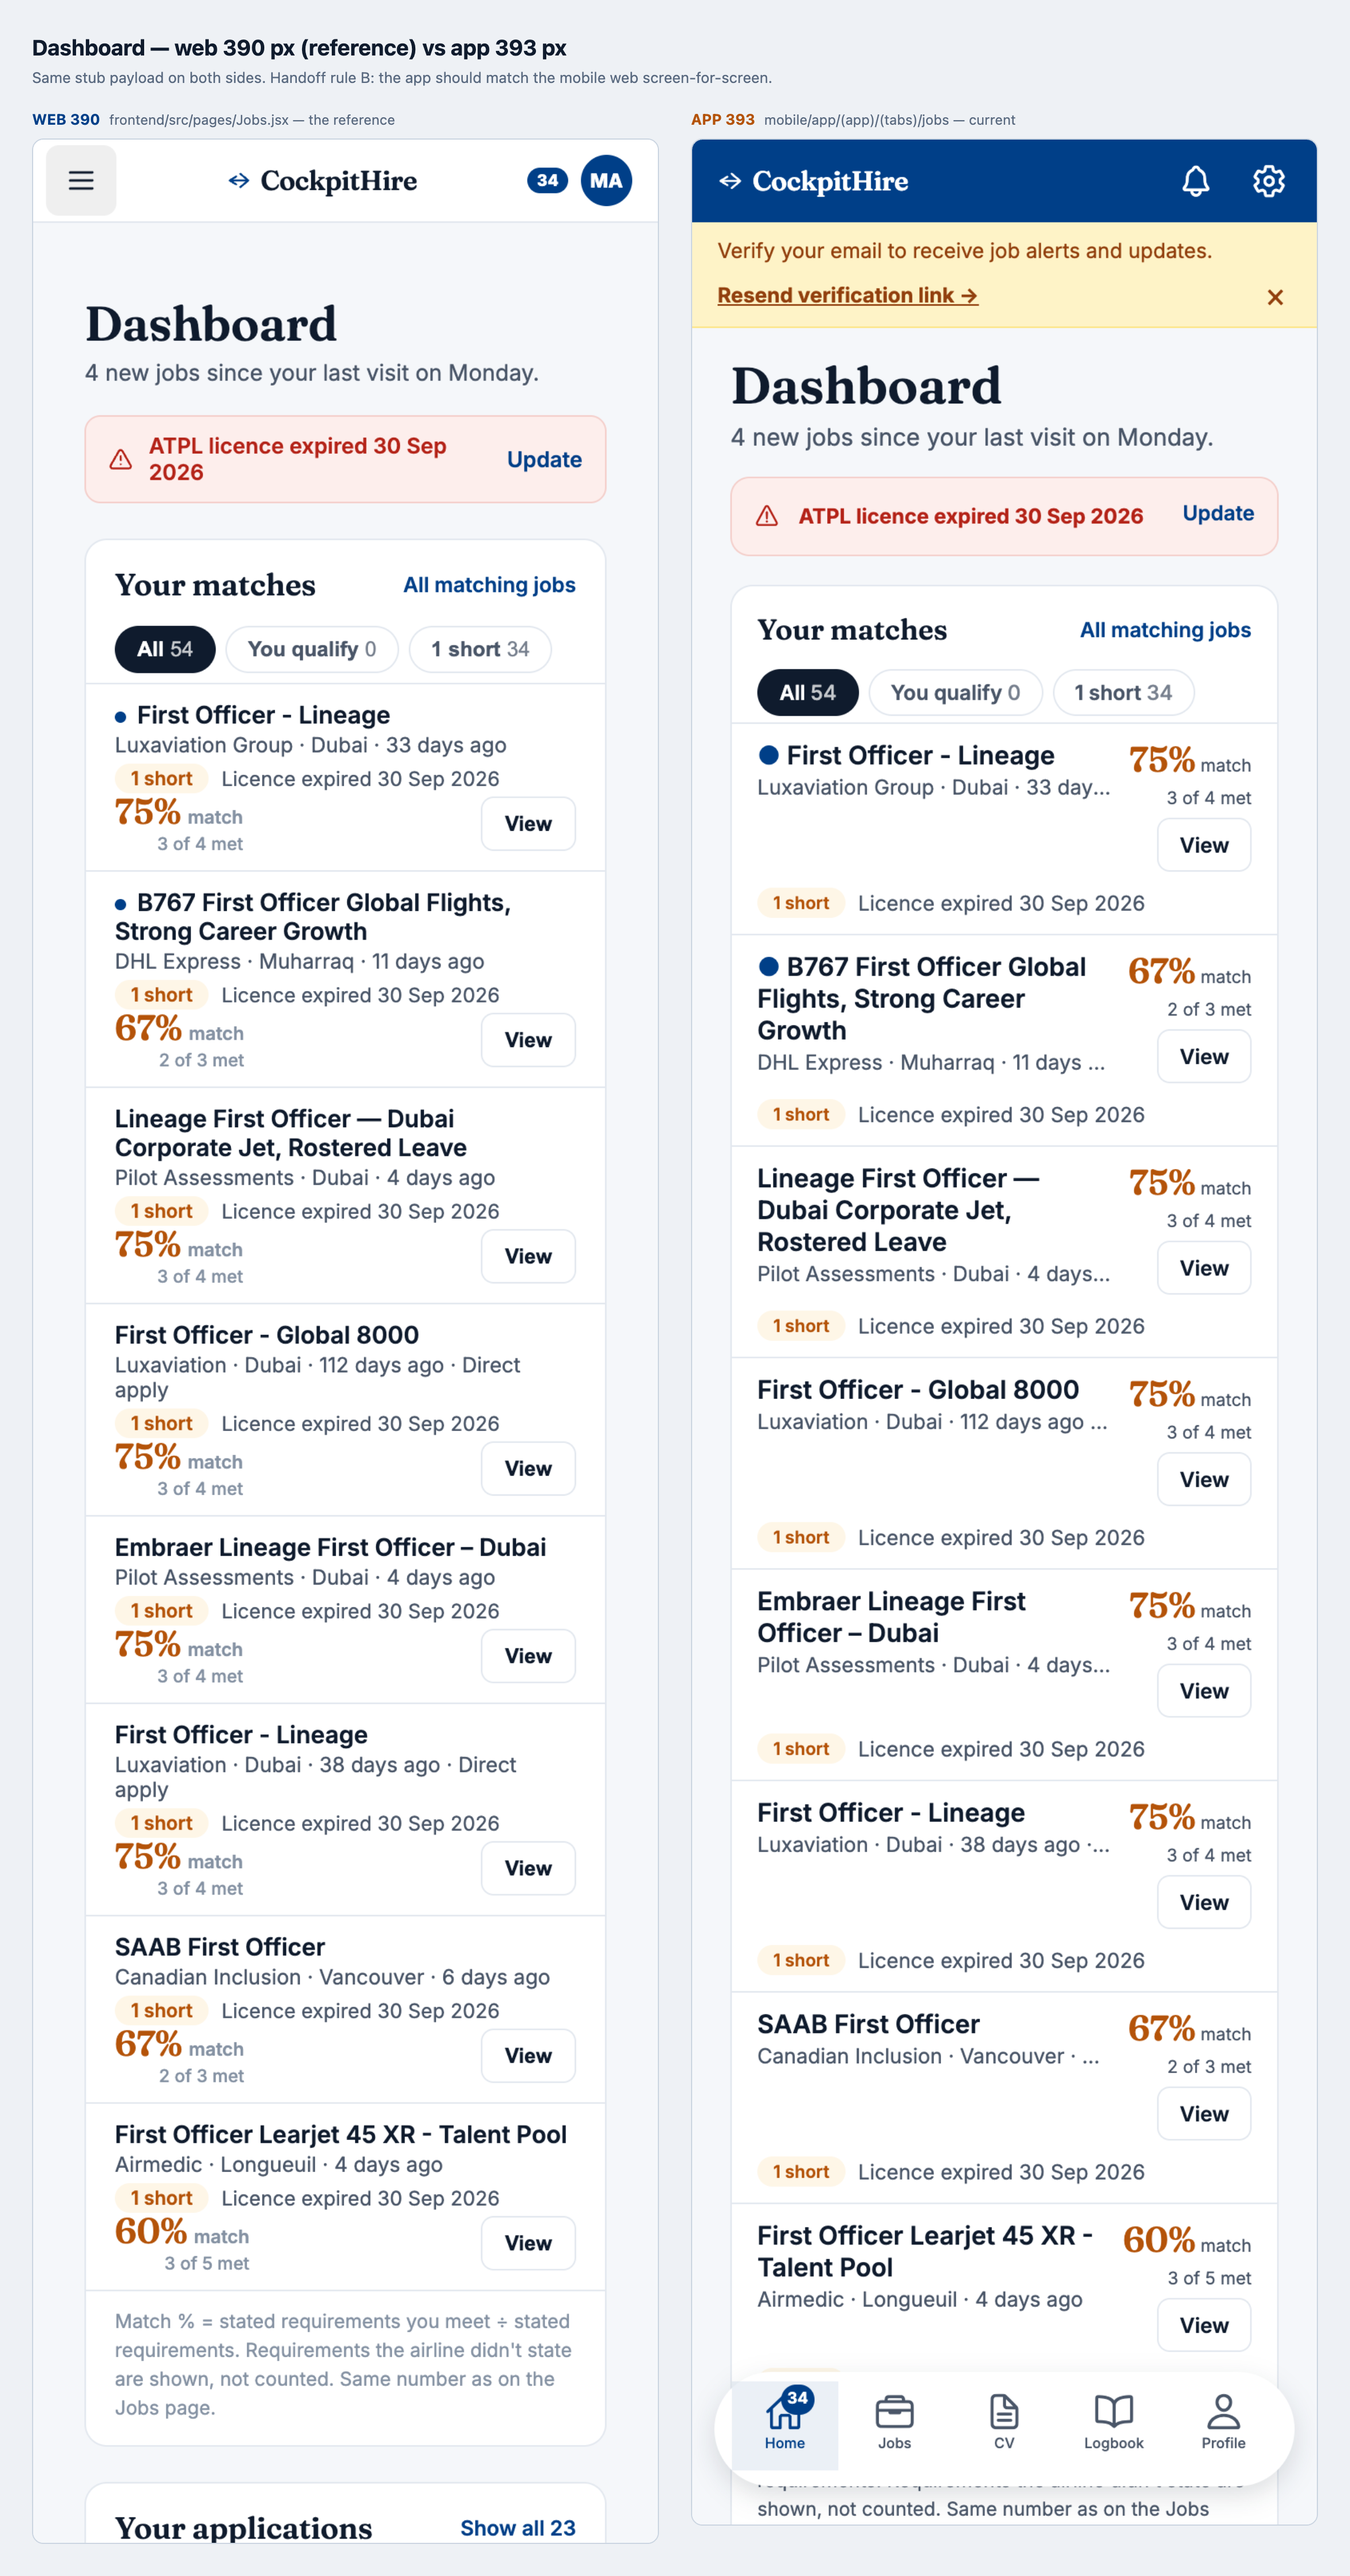
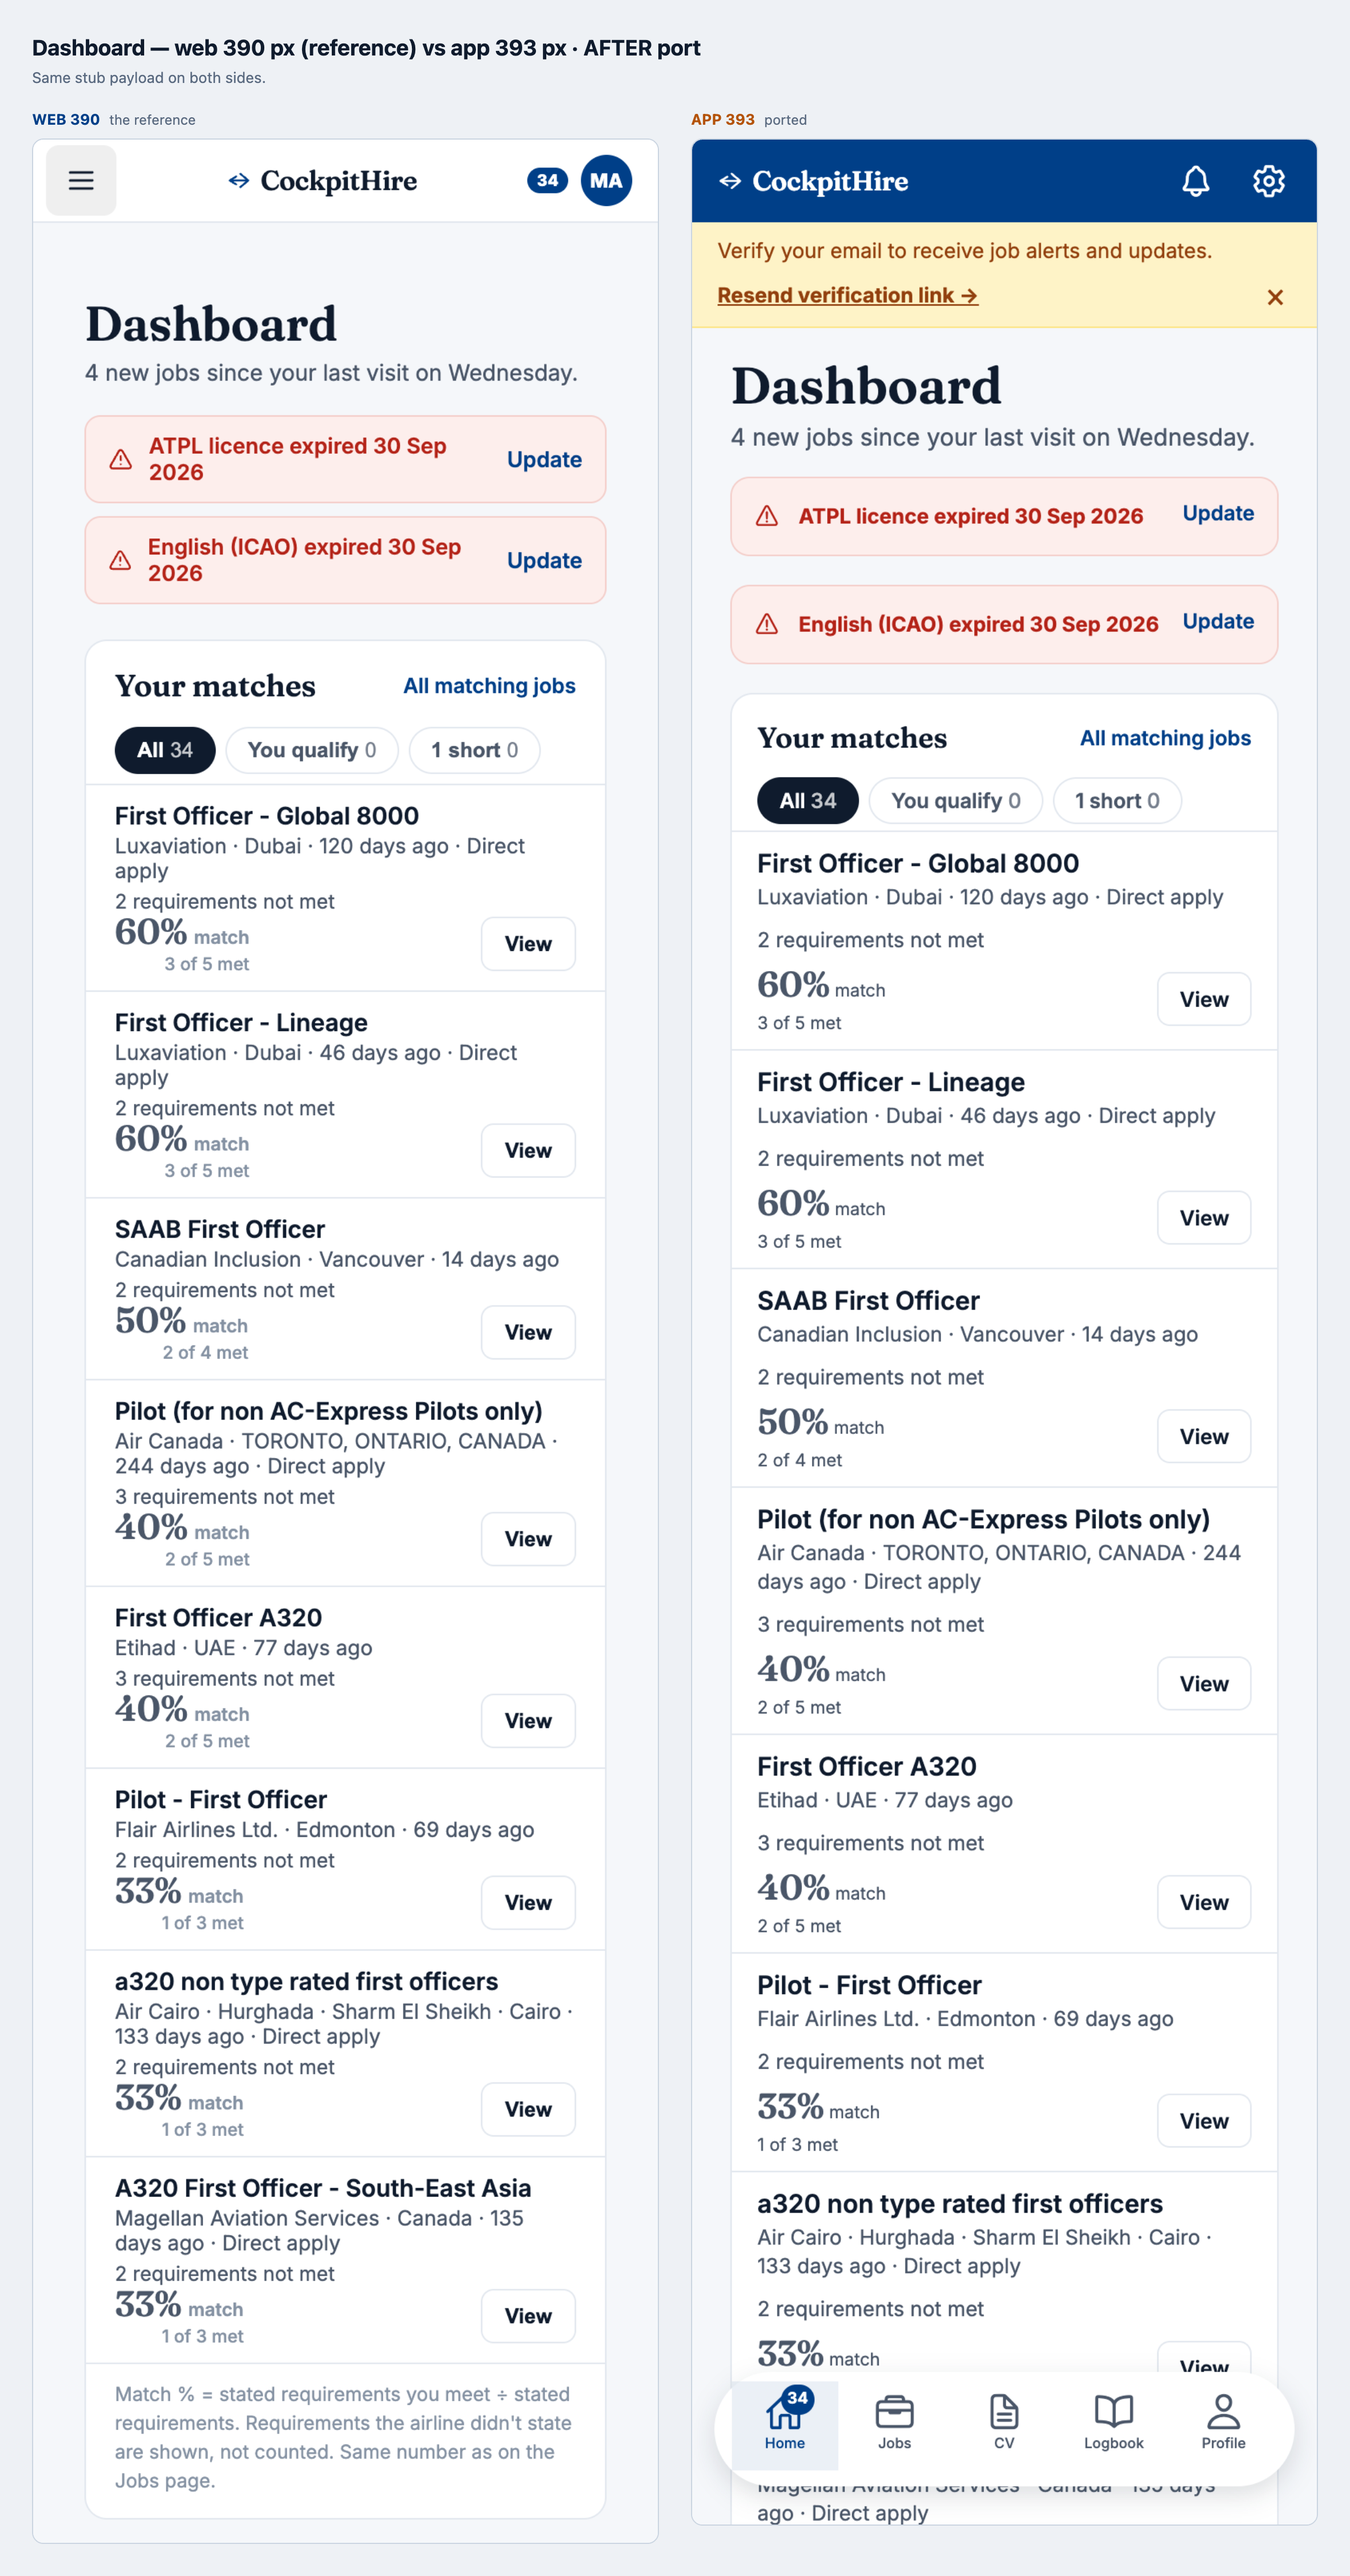
feat(mobile): Dashboard match rows match the mobile-web layout
Inventory items 1.1 and 1.2, defaulting to web as agreed.

The app's match row was two columns — title/meta on the left, % and View
stacked on the right. Web's `.dash-job` collapses to ONE column at
≤820px, with `.dash-jobside` becoming a full-width flex row
(`justify-content: space-between`). The app now does the same: title,
meta and the pill row run full width, then a row carrying the % on the
left and View on the right.

That also fixes 1.2: the right-hand column was squeezing the meta line
to a single clamped row, which silently dropped "· Direct apply" off the
end. The clamp goes with the squeeze, so the full line shows.

`metLine` is left-aligned now that it sits under a left-aligned %, and
the dead `jobTop` style is gone.

Profile: NOTHING to port. The inventory's only item was 2.1, the
"Preview as airline" link — but `/profile/preview` has no route in
App.jsx and the catch-all redirects to /dashboard, so on web that button
silently bounces the user to the Dashboard. Porting it would have copied
a bug; logged as a web fix instead. Everything else on Profile was
already at parity, confirmed by the re-shot pair.

Logbook and CV deliberately untouched — both are being redesigned.

mobile tsc clean; frontend build OK; OCR sweep over both composites
shows no contact details.

diff --git a/mobile/app/(app)/(tabs)/dashboard.tsx b/mobile/app/(app)/(tabs)/dashboard.tsx
@@ -237,25 +237,17 @@ function JobRow({ job, onView, styles, pilot }: { job: Any; onView: () => void; 
   const isQualify = m?.status === 'QUALIFY';
   return (
     <View style={styles.jobRow}>
-      <View style={styles.jobTop}>
-        <View style={{ flex: 1, minWidth: 0, paddingRight: 10 }}>
-          <Text style={styles.jobTitle}>
-            {job.isNew && <Text style={{ color: pilot.navy }}>● </Text>}{job.title}
-          </Text>
-          <Text style={styles.jobSub} numberOfLines={1}>{sub}</Text>
-        </View>
-        <View style={{ alignItems: 'flex-end' }}>
-          {meta && m.pct != null ? (
-            <>
-              <Text style={[styles.pct, { color: meta.color }]}>{m.pct}%<Text style={styles.pctSuffix}> match</Text></Text>
-              {m.stated > 0 ? <Text style={styles.metLine}>{m.met} of {m.stated} met</Text> : null}
-            </>
-          ) : <Text style={styles.notStated}>{m?.status === 'NO_REQUIREMENTS' ? 'No requirements stated' : 'Not stated'}</Text>}
-          <Pressable onPress={onView} style={[styles.viewBtn, isQualify && styles.viewBtnPrimary]}>
-            <Text style={[styles.viewBtnText, isQualify && { color: '#fff' }]}>View</Text>
-          </Pressable>
-        </View>
-      </View>
+      {/* Mirrors web's .dash-job at ≤820px: ONE column. Title, meta and the
+          pill row run full width; the % and View sit on their own row below,
+          % left and View right (web: .dash-jobside { justify-content:
+          space-between }). The old two-column layout squeezed the title and
+          clipped the meta line, which is where "· Direct apply" was being
+          lost. */}
+      <Text style={styles.jobTitle}>
+        {job.isNew && <Text style={{ color: pilot.navy }}>● </Text>}{job.title}
+      </Text>
+      <Text style={styles.jobSub}>{sub}</Text>
+
       {(pill || meta?.shortfall || m?.category?.advisory) && (
         <View style={styles.jobMetaRow}>
           {pill && <Text style={[styles.jobPill, { backgroundColor: pill.bg, color: pill.c }]}>{pill.t}</Text>}
@@ -263,6 +255,18 @@ function JobRow({ job, onView, styles, pilot }: { job: Any; onView: () => void; 
           {m?.category?.advisory && <Text style={styles.jobAdvisory}>· {m.category.advisory}</Text>}
         </View>
       )}
+
+      <View style={styles.jobSide}>
+        {meta && m.pct != null ? (
+          <View style={styles.pctWrap}>
+            <Text style={[styles.pct, { color: meta.color }]}>{m.pct}%<Text style={styles.pctSuffix}> match</Text></Text>
+            {m.stated > 0 ? <Text style={styles.metLine}>{m.met} of {m.stated} met</Text> : null}
+          </View>
+        ) : <Text style={styles.notStated}>{m?.status === 'NO_REQUIREMENTS' ? 'No requirements stated' : 'Not stated'}</Text>}
+        <Pressable onPress={onView} style={[styles.viewBtn, isQualify && styles.viewBtnPrimary]}>
+          <Text style={[styles.viewBtnText, isQualify && { color: '#fff' }]}>View</Text>
+        </Pressable>
+      </View>
     </View>
   );
 }
@@ -317,14 +321,16 @@ const createStyles = (pilot: ThemePalette) => StyleSheet.create({
   footNote: { padding: 14, paddingHorizontal: 16, borderTopWidth: 1, borderTopColor: pilot.line, fontSize: fontSizes.xs, color: pilot.muted, fontFamily: fontFamilies.body, lineHeight: 18 },
 
   jobRow: { borderTopWidth: 1, borderTopColor: pilot.line, paddingHorizontal: 16, paddingVertical: 10 },
-  jobTop: { flexDirection: 'row', alignItems: 'flex-start' },
   jobTitle: { fontFamily: fontFamilies.bodySemiBold, fontSize: fontSizes.md, color: pilot.ink, lineHeight: 20 },
-  jobSub: { fontSize: fontSizes.sm, color: pilot.muted, fontFamily: fontFamilies.body, marginTop: 2 },
+  jobSub: { fontSize: fontSizes.sm, color: pilot.muted, fontFamily: fontFamilies.body, marginTop: 2, lineHeight: 18 },
+  // the %/View row: full width, % left, View right — web's phone layout
+  jobSide: { flexDirection: 'row', alignItems: 'center', justifyContent: 'space-between', marginTop: 8 },
+  pctWrap: { alignItems: 'flex-start' },
   pct: { fontFamily: fontFamilies.display, fontSize: 22, lineHeight: 24 },
   pctSuffix: { fontFamily: fontFamilies.body, fontSize: 11, color: pilot.muted },
-  metLine: { fontFamily: fontFamilies.body, fontSize: 11, color: pilot.muted, marginTop: 2, textAlign: 'right' },
+  metLine: { fontFamily: fontFamilies.body, fontSize: 11, color: pilot.muted, marginTop: 2 },
   notStated: { fontSize: fontSizes.xs, color: pilot.muted, fontFamily: fontFamilies.body },
-  viewBtn: { marginTop: 6, height: 34, paddingHorizontal: 13, borderRadius: 8, borderWidth: 1, borderColor: pilot.line, backgroundColor: pilot.surface, alignItems: 'center', justifyContent: 'center' },
+  viewBtn: { height: 34, paddingHorizontal: 13, borderRadius: 8, borderWidth: 1, borderColor: pilot.line, backgroundColor: pilot.surface, alignItems: 'center', justifyContent: 'center' },
   viewBtnPrimary: { borderColor: pilot.navy, backgroundColor: pilot.navy },
   viewBtnText: { fontSize: fontSizes.sm, fontFamily: fontFamilies.bodySemiBold, color: pilot.ink },
   jobMetaRow: { flexDirection: 'row', alignItems: 'center', flexWrap: 'wrap', gap: 8, marginTop: 10 },

diff --git a/docs/design/screens-web-vs-app-inventory.md b/docs/design/screens-web-vs-app-inventory.md
@@ -21,8 +21,8 @@ payload before rendering):
 
 | # | Web (reference) | App | Decision |
 |---|---|---|---|
-| 1.1 | Match % sits **under** the meta line, full-width row | % in a **right-hand column** beside the title | **[?]** The app's two-column is tighter, but it squeezes the title and truncates the meta ("33 day…"). Leaning **default-to-web** (stack it) to stop the truncation — but it costs vertical space on every row. |
-| 1.2 | Meta line shows `· Direct apply` | truncated away by the right column | Falls out of 1.1. |
+| 1.1 | Match % sits **under** the meta line, full-width row | % in a **right-hand column** beside the title | **[default-to-web] DONE.** The app row is now one column, mirroring web's `.dash-job` at ≤820px: title, meta and the pill row full width, then a row with the **% left and View right** (`.dash-jobside { justify-content: space-between }`). |
+| 1.2 | Meta line shows `· Direct apply` | truncated away by the right column | **DONE** — the 1-line clamp is gone with the squeeze, so the full meta line including `· Direct apply` now shows. |
 | 1.3 | — | email-verification banner above the content | App-wide chrome. Leave. |
 | 1.4 | "Match % = stated requirements you meet ÷ stated requirements…" explainer | same explainer | Already in parity. |
 
@@ -30,10 +30,10 @@ payload before rendering):
 
 | # | Web | App | Decision |
 |---|---|---|---|
-| 2.1 | **"Preview as airline"** link under the header buttons | absent | **[default-to-web]** Port to the app. |
+| 2.1 | **"Preview as airline"** link under the header buttons | absent | **NOT PORTED — it is a dead link on web.** `/profile/preview` has no route in `App.jsx`; the catch-all `path="*"` redirects to `/dashboard`, so the button silently bounces the user to the Dashboard. Porting it would copy the bug. **Web fix needed:** build the preview page or remove the button. |
 | 2.2 | everything else — readiness strip, stat grid, strength bar, licences, medical, training | identical | No action. |
 
-## 3. Logbook — the biggest gap of the four
+## 3. Logbook — NOT PORTED (being redesigned; new mockups coming)
 
 | # | Web | App | Decision |
 |---|---|---|---|
@@ -45,7 +45,7 @@ payload before rendering):
 | 3.6 | Milestone card ends with **"See them →"** linking to the +24 jobs | the same card, no link | **[default-to-web]** Port the link — a dead-end stat is a wasted hook. |
 | 3.7 | `Import` as a header link | `Import` as a button | Falls out of 3.3. |
 
-## 4. CV Builder — close, mostly layout
+## 4. CV Builder — NOT PORTED (being redesigned; new mockups coming)
 
 | # | Web | App | Decision |
 |---|---|---|---|
@@ -58,11 +58,11 @@ payload before rendering):
 
 ---
 
-## Suggested order (after your decisions)
-1. **Profile 2.1** — one link, five minutes.
-2. **CV 4.1 / 4.4 / 4.5** — layout + the Download button.
-3. **Dashboard 1.1** — decide the row layout, then it is a single change.
-4. **Logbook** — the real work: 3.1 (row design) gates 3.2–3.7.
-5. **Back-ports to web**: 3.4, 3.5 (and the Jobs ones already noted).
+## Status 2026-10-16
+- **Dashboard — PORTED** (1.1, 1.2). Side-by-side re-shot.
+- **Profile — nothing to port.** The only difference was 2.1, which is a dead link on web; everything else was already at parity.
+- **Logbook, CV — not ported, by decision.** Both are being redesigned; the rows below are kept as a record of where they diverge today, not as a work list.
 
-Each step: commit, re-shoot the pair, update this file.
+### Open for web
+- `/profile/preview` route missing (2.1) — build it or drop the button.
+- Back-ports already noted on Jobs: the Logbook header subtitle and the carry-forward `active` badge (3.4, 3.5) remain unported in either direction while Logbook is being redesigned.
